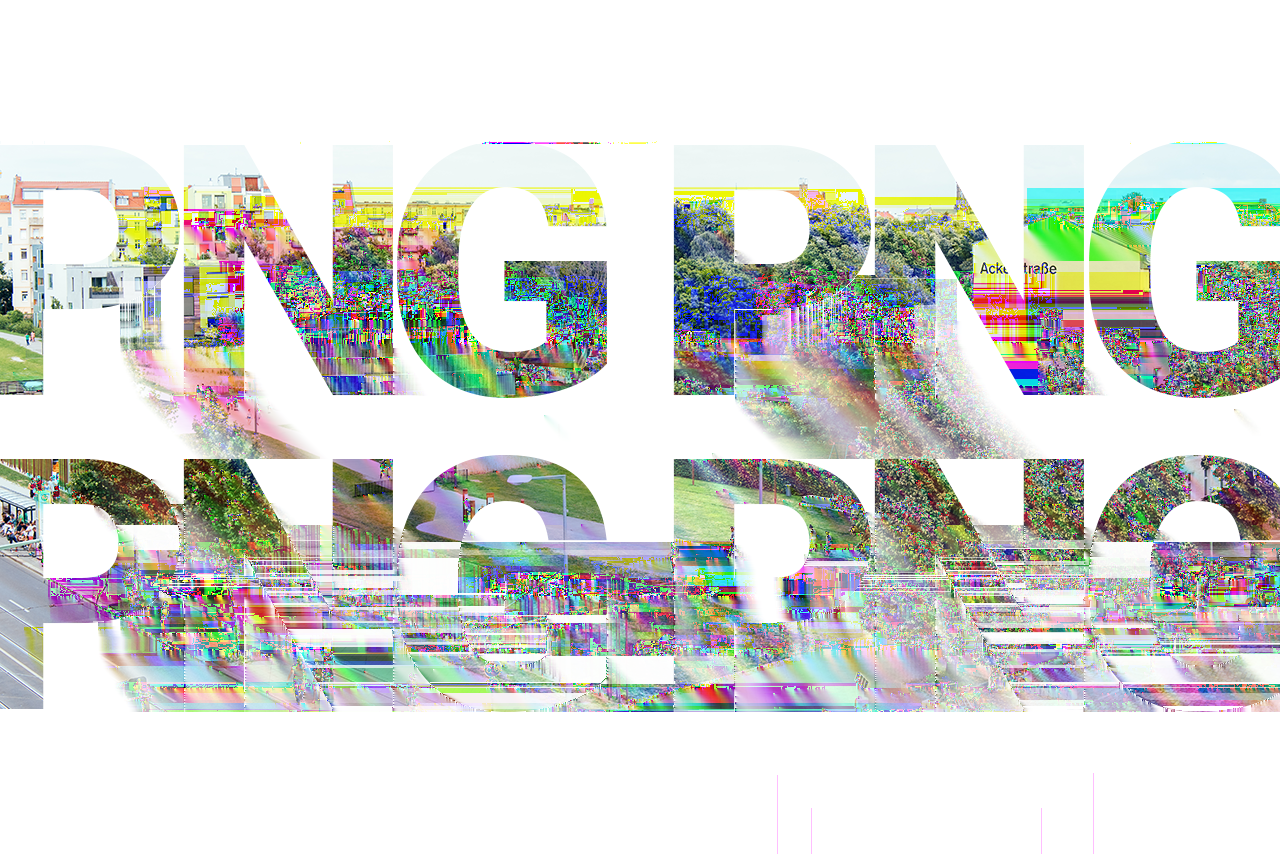
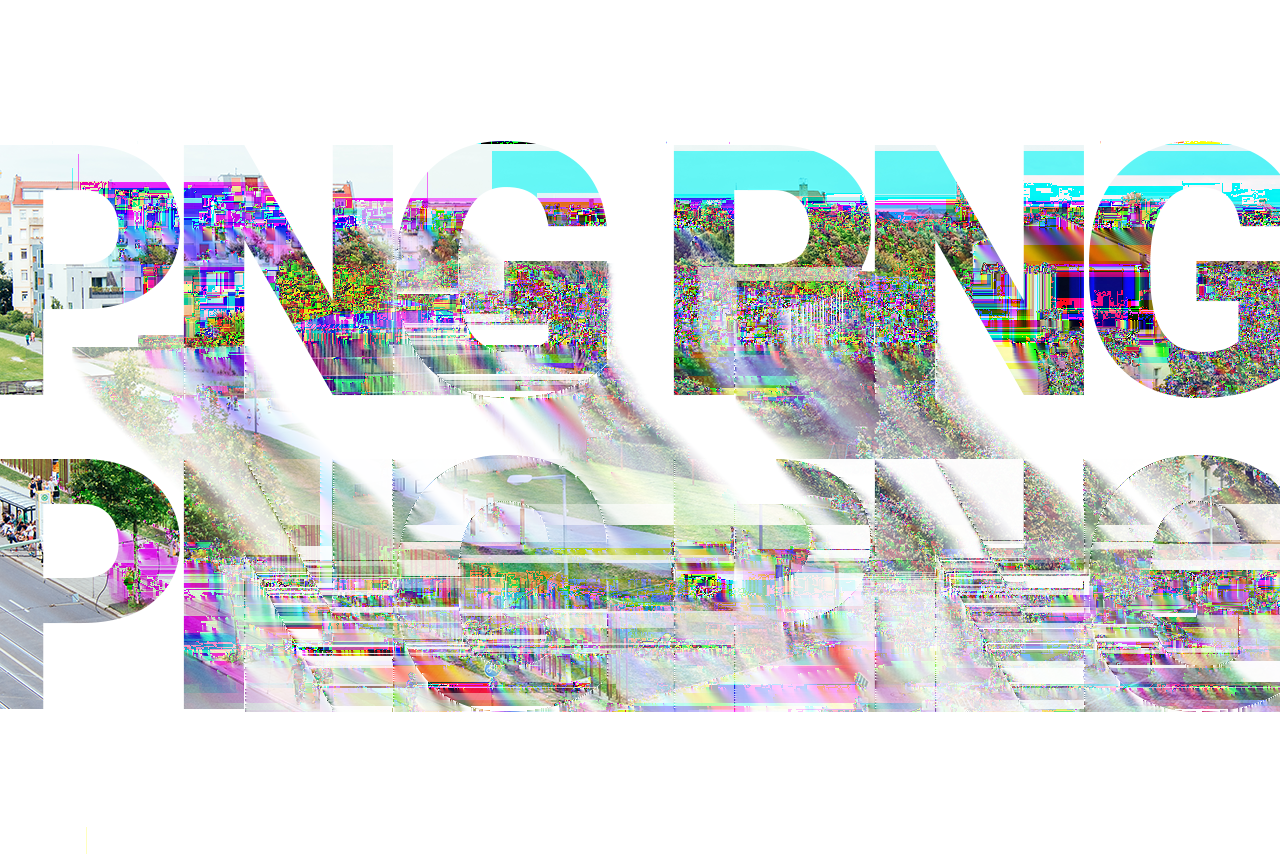
Added more graft examples

diff --git a/index.html b/index.html
@@ -197,7 +197,7 @@
       <h2><a name="appendix-a"></a>Appendix A: PNGlitch library</h2>
       <p>
       The author released <a href="http://www.jarchive.org/akami/aka018.html">a tiny script for PNG glitch</a> in 2010. Back then, it only removed the CRC32 and added it back again after the internal data was glitched.<br>
-      Since then, the author has continued to rewrite the script and make improved versions of it for the purpose of using it in his own work, but he decided to make a library that adopts his know-how in 2014. The Ruby library PNGlitch came out as the result.<br>
+      Since then, the author has continued to rewrite the script and make improved versions of it for the purpose of using it in his own work, but he decided to make a library that adopts his know-how in 2014. The Ruby library <a href="https://github.com/ucnv/pnglitch">PNGlitch</a> came out as the result.<br>
       Every glitch image that appears in this article is made by using this library.
       </p>
       <p>
@@ -1627,7 +1627,7 @@ infiles.each do |infile|
               x = data.size / 4
               data[0, x] + data[x * 2, x] + data[x * 1, x] + data[x * 3..-1]
             when :defect
-              range.times do
+              (range / 5).times do
                 data[rand(data.size)] = ''
               end
               data
@@ -1635,7 +1635,7 @@ infiles.each do |infile|
           end
           unless compress
             png.glitch do |data|
-              process.call data, 150
+              process.call data, 50
             end
           else
             png.glitch_after_compress do |data|
@@ -1663,8 +1663,9 @@ File.unlink 'tmp.png'
         <a href="files/png-glitch-graft.png"><img src="files/blank.png" data-src="files/png-glitch-graft.png" alt="Figure C.1) "></a>
         <figcaption>Figure C.1) PNG applied wrong filter types</figcaption>
       </figure>
+
       <p>
-      The image above is generated with the code below.
+      The image above is generated with the code below.<br> In PNGlitch, the method <code>graft</code> is prepared for attaching a wrong filter type to a scanline.
       </p>
 
       <code>
@@ -1674,7 +1675,45 @@ PNGlitch.open('png.png') do |png|
   png.each_scanline do |line|
     line.graft rand(5)
   end
-  png.save 'png-glitch-graft.png'
+  png.save "png-glitch-graft.png"
+end
+        </pre>
+      </code>
+
+      <p>
+        This technique is convenient, even for checking how different glitching effect of the filters is. Next five images is the results that applied one particular filter type byte on every scanline, without modifying scanline data.
+      </p>
+
+      <figure class="full">
+        <a href="files/png-glitch-graft-0.png"><img src="files/blank.png" data-src="files/png-glitch-graft-0.png" alt="Figure C.2) "></a>
+        <figcaption>Figure C.2) PNG applied wrong filter types, changing every filter type as None</figcaption>
+      </figure>
+      <figure class="full">
+        <a href="files/png-glitch-graft-1.png"><img src="files/blank.png" data-src="files/png-glitch-graft-1.png" alt="Figure C.3) "></a>
+        <figcaption>Figure C.3) PNG applied wrong filter types, changing every filter type as Sub</figcaption>
+      </figure>
+      <figure class="full">
+        <a href="files/png-glitch-graft-2.png"><img src="files/blank.png" data-src="files/png-glitch-graft-2.png" alt="Figure C.4) "></a>
+        <figcaption>Figure C.4) PNG applied wrong filter types, changing every filter type as Up</figcaption>
+      </figure>
+      <figure class="full">
+        <a href="files/png-glitch-graft-3.png"><img src="files/blank.png" data-src="files/png-glitch-graft-3.png" alt="Figure C.5) "></a>
+        <figcaption>Figure C.5) PNG applied wrong filter types, changing every filter type as Average </figcaption>
+      </figure>
+      <figure class="full">
+        <a href="files/png-glitch-graft-4.png"><img src="files/blank.png" data-src="files/png-glitch-graft-4.png" alt="Figure C.6) "></a>
+        <figcaption>Figure C.6) PNG applied wrong filter types, changing every filter type as Paeth </figcaption>
+      </figure>
+
+      <code>
+        <pre>
+require 'pnglitch'
+filter = ARGV.shift.to_i
+PNGlitch.open('png.png') do |png|
+  png.each_scanline do |line|
+    line.graft filter
+  end
+  png.save("png-glitch-graft-%i.png" % filter)
 end
         </pre>
       </code>
@@ -1685,8 +1724,8 @@ end
       What will happen if an incorrect filter is implemented? PNGlitch is designed to allow the user to freely change filter methods, so the user can test what happens at that state. A normal viewer application that uses a standard filter method is decoding a PNG image that is encoded by a distinctive filter method. This will perhaps generate an algorithmic glitch (I will not argue about if we should call that a glitch or not). The images below are part of such generated images.
       </p>
       <figure class="full">
-        <a href="files/png-incorrect-filter01.png"><img src="files/blank.png" data-src="files/png-incorrect-filter01.png" alt="Figure C.2) PNG encoded with an incorrect filter 1"></a>
-        <figcaption>Figure C.2) PNG encoded with an incorrect filter 1</figcaption>
+        <a href="files/png-incorrect-filter01.png"><img src="files/blank.png" data-src="files/png-incorrect-filter01.png" alt="Figure C.7) PNG encoded with an incorrect filter 1"></a>
+        <figcaption>Figure C.7) PNG encoded with an incorrect filter 1</figcaption>
       </figure>
       <code>
         <pre>
@@ -1708,8 +1747,8 @@ end
       </code>
 
       <figure class="full">
-        <a href="files/png-incorrect-filter02.png"><img src="files/blank.png" data-src="files/png-incorrect-filter02.png" alt="Figure C.3) PNG encoded with an incorrect filter 2"></a>
-        <figcaption>Figure C.3) PNG encoded with an incorrect filter 2</figcaption>
+        <a href="files/png-incorrect-filter02.png"><img src="files/blank.png" data-src="files/png-incorrect-filter02.png" alt="Figure C.8) PNG encoded with an incorrect filter 2"></a>
+        <figcaption>Figure C.8) PNG encoded with an incorrect filter 2</figcaption>
       </figure>
       <code>
         <pre>
@@ -1732,8 +1771,8 @@ end
       </code>
 
       <figure class="full">
-        <a href="files/png-incorrect-filter03.png"><img src="files/blank.png" data-src="files/png-incorrect-filter03.png" alt="Figure C.4) PNG encoded with an incorrect filter 3"></a>
-        <figcaption>Figure C.4) PNG encoded with an incorrect filter 3</figcaption>
+        <a href="files/png-incorrect-filter03.png"><img src="files/blank.png" data-src="files/png-incorrect-filter03.png" alt="Figure C.9) PNG encoded with an incorrect filter 3"></a>
+        <figcaption>Figure C.9) PNG encoded with an incorrect filter 3</figcaption>
       </figure>
       <code>
         <pre>
@@ -1766,8 +1805,8 @@ end
       </code>
 
       <figure class="full">
-        <a href="files/png-incorrect-filter04.png"><img src="files/blank.png" data-src="files/png-incorrect-filter04.png" alt="Figure C.5) PNG encoded with an incorrect filter 4"></a>
-        <figcaption>Figure C.5) PNG encoded with an incorrect filter 4</figcaption>
+        <a href="files/png-incorrect-filter04.png"><img src="files/blank.png" data-src="files/png-incorrect-filter04.png" alt="Figure C.10) PNG encoded with an incorrect filter 4"></a>
+        <figcaption>Figure C.10) PNG encoded with an incorrect filter 4</figcaption>
       </figure>
       <code>
         <pre>
